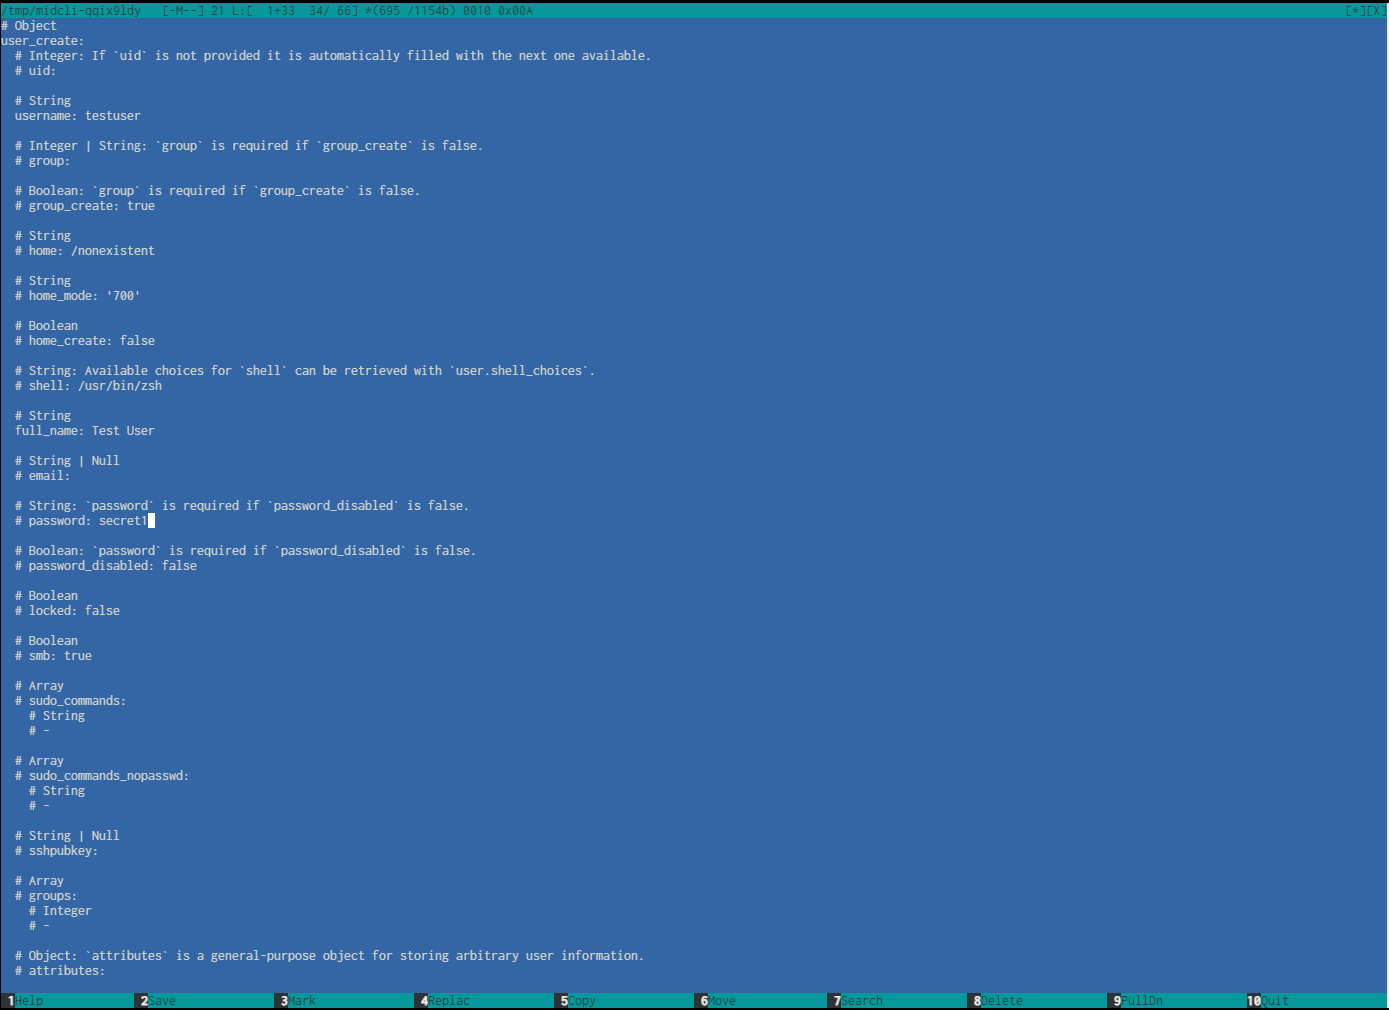
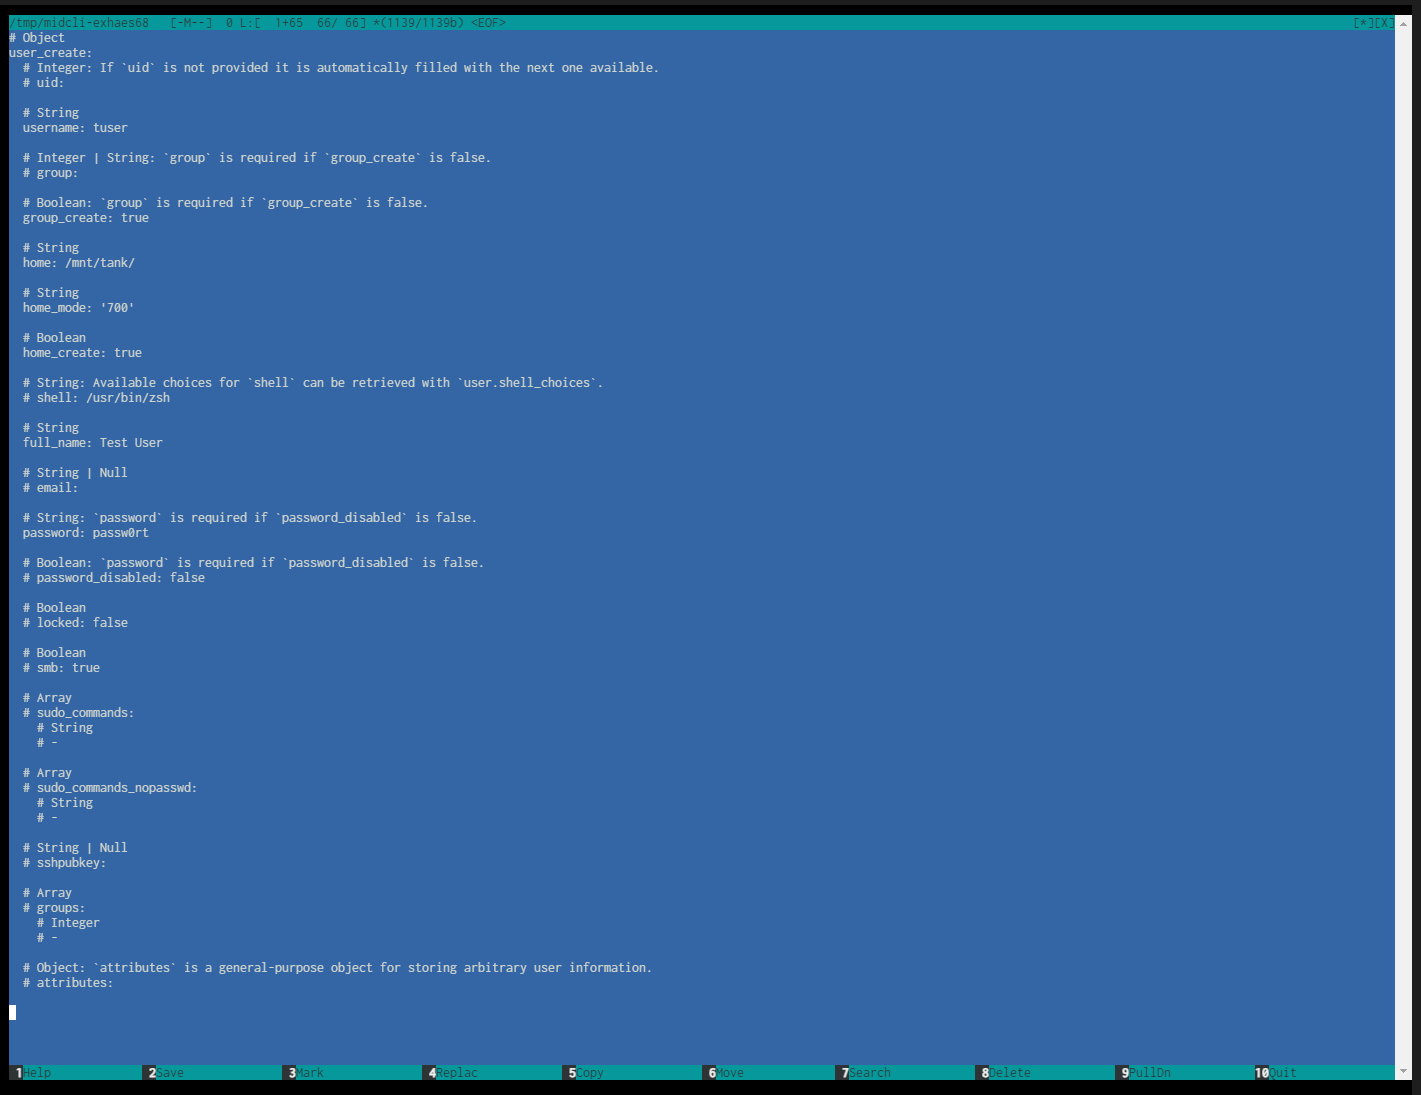
Updates to User Create

diff --git a/content/SCALE/SCALECLIReference/Account/CLIuser.md b/content/SCALE/SCALECLIReference/Account/CLIuser.md
@@ -11,15 +11,14 @@ tags:
 
 {{< toc >}}
 
-
 {{< include file="/_includes/CLIGuideWIP.md" type="page" >}}
-
-## Account User Commands
 
 The **user** namespace has 14 commands and is based on functions found in the SCALE API and web UI. It provides access to user account creation, configuration, and attribute management. You can also set up a local administrator account using this namespace.
 
 You can enter commands from the main CLI prompt or from the system namespace prompt.
-### The create Command
+
+## The create Command
+
 The `create` command creates a new user account.
 
 {{< expand "Using the create Command" "v" >}}
@@ -30,32 +29,66 @@ From the CLI prompt, enter:
 From the account prompt, enter:
 
 `user create`
-
-### Options
+{{< expand "Command Example" "v" >}}
+{{< include file="content/_includes/CLI/AccountUserCreateExample.md" type="page" >}}
+{{< /expand >}}
+{{< /expand >}}
 
 `create` has one command option and 19 arguments.
 
-A full `create` command string with the minimum required arguments could look like:
-
-{{< include file="/_includes/CLI/AccountUserCreateExample.md" type="page" >}}
-
-If there is an issue with the command string or a required argument is not defined, the CLI displays a validation error.
-If the user account is successfully created, the CLI displays a new prompt.
-
-{{< trueimage src="/images/SCALE/CLI/Account/UserCreateErrorAndCorrect.png" alt="user create Validation Error and Success" id="1: user create Validation Error and Success" >}}
+### The Interactive Arguments Editor
 
 Entering the `create --` option will open an **interactive arguments editor**.
 
-{{< expand "Interactive Arguments Editor" "v" >}}
+{{< expand "Using the Interactive Arguments Editor" "v" >}}
 {{< trueimage src="/images/SCALE/CLI/Account/UserCreateInteractiveArgumentsEditor.png" alt="Interactive Arguments Editor" id="2: Interactive Arguments Editor" >}}
 
 The interactive arguments editor provides a Text User Interface (TUI) where arguments and options can be configured. The TUI also provides some information on required arguments, defaults, and expected input types (string, boolean, integer, or array).
 
-A space is required between the TUI provided argument and entered data, for example `username: testuser`.
+In the TUI, most arguments are initially marked as comments with the `#` symbol, indicating that they are not yet configured. However, `username:` and `full_name:` are shown as required fields.
+
+To provide values for the other arguments, you need to remove the `#` comment designator from the corresponding line in the TUI.
+
+{{< hint type=tip >}}
+A username, full name, primary group, and password status are all required for user creation.
+You must remove the `#` comment designator and enter a value for either `group:` or `group_create:` and `password:` or `password_disabled:`.
+
+See the relevant rows in [Configuration Arguments](#configuration-arguments) for more information.
+{{< /hint >}}
+
+A space is required between the provided argument and entered data, for example `username: testuser`.
+
+Press <kbd>F2</kbd> or click **Save** to save the modified file.
+
+Press <kbd>F10</kbd>, <kbd>Esc</kbd>, or click **Quit** to exit the TUI.
+The `create` command will automatically execute upon exit.
 {{< /expand >}}
 
 ### Configuration Arguments
 
+`create` has 19 available arguments for user account configuration. They are:
+
+* uid
+* username
+* group
+* group_create
+* home
+* home_mode
+* home_create
+* shell
+* full_name
+* email
+* password
+* password_disabled
+* locked
+* smb
+* sudo_commands
+* sudo_commands_nopasswd
+* sshpubkey
+* groups
+* attributes
+
+{{< expand "Click for More Information and Examples" "v" >}}
 {{< truetable >}}
 | Argument | Type | Function | Required? |
 |-----------|-------------|-------------|-------------|
@@ -64,108 +97,120 @@ A space is required between the TUI provided argument and entered data, for exam
 | `group=` | Integer or String | Assigns the account to an existing group. <br> Ex. `group=value`<br> &emsp; Where `value` is the group name or Group Identification number (GID). | **Yes**, if `group_create` is set to false. |
 | `group_create=` | Boolean | If set to `true`, creates a new group based on `username` and assigns the account to it. Default state is `false`. <br> Ex. `group_create=true` <br> &emsp; Where `true` is a boolean variable. | **Yes**, if an existing `group` is not assigned. |
 | `home=` | String | Sets a home directory for the account. Defaults to `/nonexistent` if not defined. <br> Requires `home_create=true` if the desired directory does not exist. <br> Ex. `home="/mnt/tank/staff/"` <br> &emsp; Where `/mnt/tank/staff/` is an existing directory. | No |
-| `home_mode=` | String | ##### | No |
+| `home_mode=` | String | Sets home directory permissions using octal permission values. Defaults to `700`. <br> Ex. `home_mode= 700` <br> &emsp; Where `700` is an octal value representing the desired permission mode.  | No |
 | `home_create=` | Boolean | If set to `true`, creates a new home directory for the user within a selected path defined by `home`. Default state is `false`. Reverts to default after the directory is created. <br> Ex. `home="/mnt/tank/" home_create=true` <br> &emsp; Where `/mnt/tank/` is the desired parent path and `true` is a boolean variable. <br> &emsp; This command will create a new home directory at **/mnt/tank/**. The directory name will be the account username. | No |
 | `shell=` | String | Sets which shell option the user will access when entering **Shell** via the TrueNAS SCALE Web UI. Defaults to `/usr/bin/zsh` if not defined. <br> Available choices can be retrieved with `user.shell_choices`. <br> Ex. `shell="/usr/bin/bash"` <br> &emsp; Where `/usr/bin/bash` is the desired shell choice. | No |
 | `full_name=` | String | Sets the user full name for the account. <br> Ex. `full_name="Test User"` <br> &emsp; Where `Test User` is the user's full name. | **Yes** |
 | `email=` | String or Null | Sets the account email address. <br> Ex. `email="testuser@gmail.com"` <br> &emsp; Where `testuser@gmail.com` is the user email address. | No |
-| `password=` | String | Assigns a password to the account. <br> Ex. `password=passwort1234` <br> &emsp; Where `passwort1234` is the desired password. | **Yes**, if `password_disabled` is set to false. |
+| `password=` | String | Assigns a password to the account. <br> Ex. `password=passw0rt` <br> &emsp; Where `passw0rt` is the desired password. | **Yes**, if `password_disabled` is set to false. |
 | `password_disabled=` | Boolean | Sets whether to disable or require a password for account log in. Default state is `false`, password required. <br> Ex. `password_disabled=true` <br> &emsp; Where `true` is a boolean variable.  | **Yes**, if `password` is not defined. |
 | `locked=` | Boolean | If set to `true`, prevents the user from logging in or using password-based services until this option is unset. Locking an account is only possible when Disable Password is false and a Password has been created for the account. Defaults to `false`. <br> Ex. `locked=true` <br> &emsp; Where `true` is a boolean variable. | No |
 | `smb=` | Boolean | Enables or disables authentication of SMB shares for the user. Defaults to `true`. <br> Enabling SMB authentication on an account where it was previously disabled requires setting a new `password`. <br> Ex. `smb=false` <br> &emsp; Where `false` is a boolean variable. | No |
-| `sudo_commands=` | Array | ##### | No |
-| `sudo_commands_nopasswd=` | Array | ##### | No |
-| `sshpubkey=` | String or Null | ##### | No |
+| `sudo_commands=` | Array | Sets any sudo commands the user is allowed to use. Security best practice is to limit sudo permissions to administrative users. <br> Ex. `sudo_commands="</path1/>,</path2/>"` <br> &emsp; Where `</path1/>` and `</path2/>` are absolute paths to the location of executable scripts or packages. <br> &emsp; You can also use `sudo_commands="ALL"` | No |
+| `sudo_commands_nopasswd=` | Array | Sets any sudo commands the user is allowed to use without entering a password. Exercise caution when allowing sudo commands without password prompts. It is recommended to limit this privilege to trusted users and specific commands to minimize security risks. <br> Ex. `sudo_commands_nopasswd="</path1/>,</path2/>"` <br> &emsp; Where `</path1/>` and `</path2/>` are absolute paths to the location of executable scripts or packages. <br> &emsp; You can also use `sudo_commands_nopasswd="ALL"`, but this is not recommended. | No |
+| `sshpubkey=` | String or Null | Adds a public SSH key of the user for any key-based authentication. Do not enter the private key. <br> User account must have a defined home directory to store an SSH key.  <br> Ex. `sshpubkey="<key>"` <br> &emsp; Where `<key>` is the SSH public key string. | No |
 | `groups=` | Array | Assigns the user to one or more auxiliary groups. <br> Ex. `groups=news,staff,testuser` <br> &emsp; Where `news,staff,testuser` are the names of desired groups. | No |
-| `attributes=` | Object | A general-purpose object for storing arbitrary user information. <br> Ex. ##### | No |
+| `attributes=` | Object | A general-purpose object for storing arbitrary user information. <br> Ex. #### | No |
 {{< /truetable >}}
-
 {{< /expand >}}
-### The delete Command
+## The delete Command
+
 The `delete` command deletes an existing user account.
 
 {{< expand "Using the delete Command" "v" >}}
 
 {{< /expand >}}
 
-### The get_instance Command
+## The get_instance Command
+
 The `get_instance` command retrieves information about a user such as their username, UID (User ID), group membership, permissions, and other relevant attributes.
 
 {{< expand "Using the get_instance Command" "v" >}}
 
 {{< /expand >}}
 
-### The get_next_uid Command
+## The get_next_uid Command
+
 The `get_next_uid` command displays the next available/free UID number.
 
 {{< expand "Using the get_next_uid Command" "v" >}}
 
 {{< /expand >}}
 
-### The get_user_obj Command
-The `get_user_obj` command returns dictionary containing information from struct passwd for the user specified by either the username or uid and bypasses user cache..
+## The get_user_obj Command
+
+The `get_user_obj` command returns dictionary containing information from struct passwd for the user specified by either the username or uid and bypasses user cache.
 
 {{< expand "Using the get_user_obj Command" "v" >}}
 
 {{< /expand >}}
 
-### The has_local_administrator_set_up Command
+## The has_local_administrator_set_up Command
+
 The `has_local_administrator_set_up` command returns whether a local administrator account with a valid password exists.
 
 {{< expand "Using the has_local_administrator_set_up Command" "v" >}}
 
 {{< /expand >}}
 
-### The has_root_password Command
+## The has_root_password Command
+
 The `has_root_password` command is a deprecated method. Use the [`has_local_administrator_set_up`](#the-has_local_administrator_set_up-command) command instead.
 
 {{< expand "Deprecation Notice" "v" >}}
 {{< include file="RootLoginWarnSCALE.md" type="page" >}}
 {{< /expand >}}
 
-### The pop_attribute Command
+## The pop_attribute Command
+
 The `pop_attribute` command removes attributes, defined by a key, from a user dictionary.
 
 {{< expand "Using the pop_attribute Command" "v" >}}
 
 {{< /expand >}}
 
-### The query Command
+## The query Command
+
 The `query` command queries users and can use various query-filters and query-options.
 
 {{< expand "Using the query Command" "v" >}}
 
 {{< /expand >}}
 
-### The set_attribute Command
+## The set_attribute Command
+
 The `set_attribute` command sets a user's general purpose attributes dictionary key to a specified value.
 
 {{< expand "Using the set_attribute Command" "v" >}}
 
 {{< /expand >}}
 
-### The set_root_password Command
+## The set_root_password Command
+
 The `set_root_password` command is a deprecated method. Use the [`setup_local_administrator`](#the-setup_local_administrator-command) command instead.
 
 {{< expand "Deprecation Notice" "v" >}}
 {{< include file="RootLoginWarnSCALE.md" type="page" >}}
 {{< /expand >}}
 
-### The setup_local_administrator Command
+## The setup_local_administrator Command
+
 The `setup_local_administrator` command creates and configures an admin account. This method does not require authentication if a local administrator is not already set up.
 
 {{< expand "Using the setup_local_administrator Command" "v" >}}
 
 {{< /expand >}}
 
-### The shell_choices Command
+## The shell_choices Command
+
 The `shell_choices` command returns the available shell choices to be used by a user account.
 
 {{< expand "Using the shell_choices Command" "v" >}}
 
 {{< /expand >}}
 
-### The update Command
+## The update Command
+
 The `update` command updates the attributes of an existing user.
 
 {{< expand "Using the update Command" "v" >}}

diff --git a/content/_includes/CLI/AccountUserCreateExample.md b/content/_includes/CLI/AccountUserCreateExample.md
@@ -1,4 +1,12 @@
 ---
 ---
 
-`account user create username=testuser full_name=Test_User group_create=true password=passwort1234`
+```
+account user create username=testuser full_name="Test User" group_create=true password=passwort1234
+```
+
+The command returns a blank line. To confirm the user is created, go to [**Credentials > Local Users**]({{< relref "managelocalusersscale.md" >}}) in the SCALE Web UI.
+
+{{< hint type=note >}}
+This command contains the minimum required configuration arguments to successfully create a user.
+{{< /hint >}}
